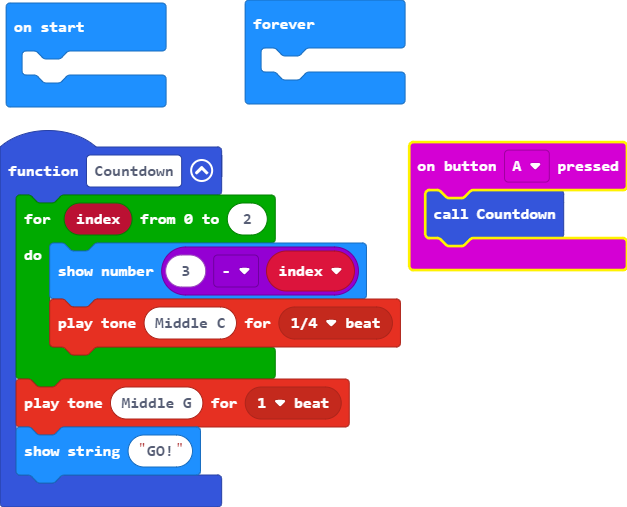
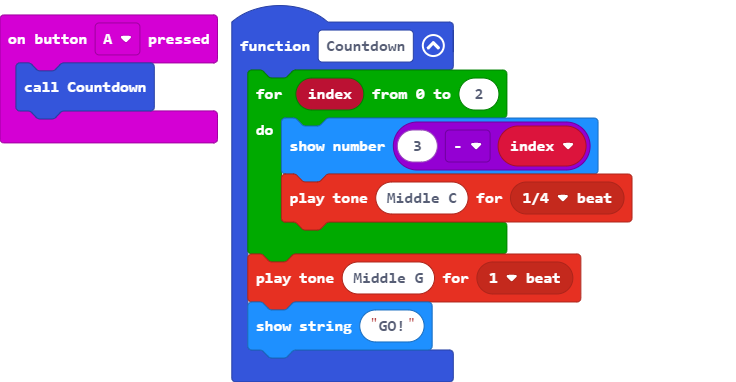
Update main.blocks, main.ts

diff --git a/main.ts b/main.ts
@@ -9,6 +9,3 @@ function Countdown () {
     music.playTone(392, music.beat(BeatFraction.Whole))
     basic.showString("GO!")
 }
-basic.forever(function () {
-	
-})
